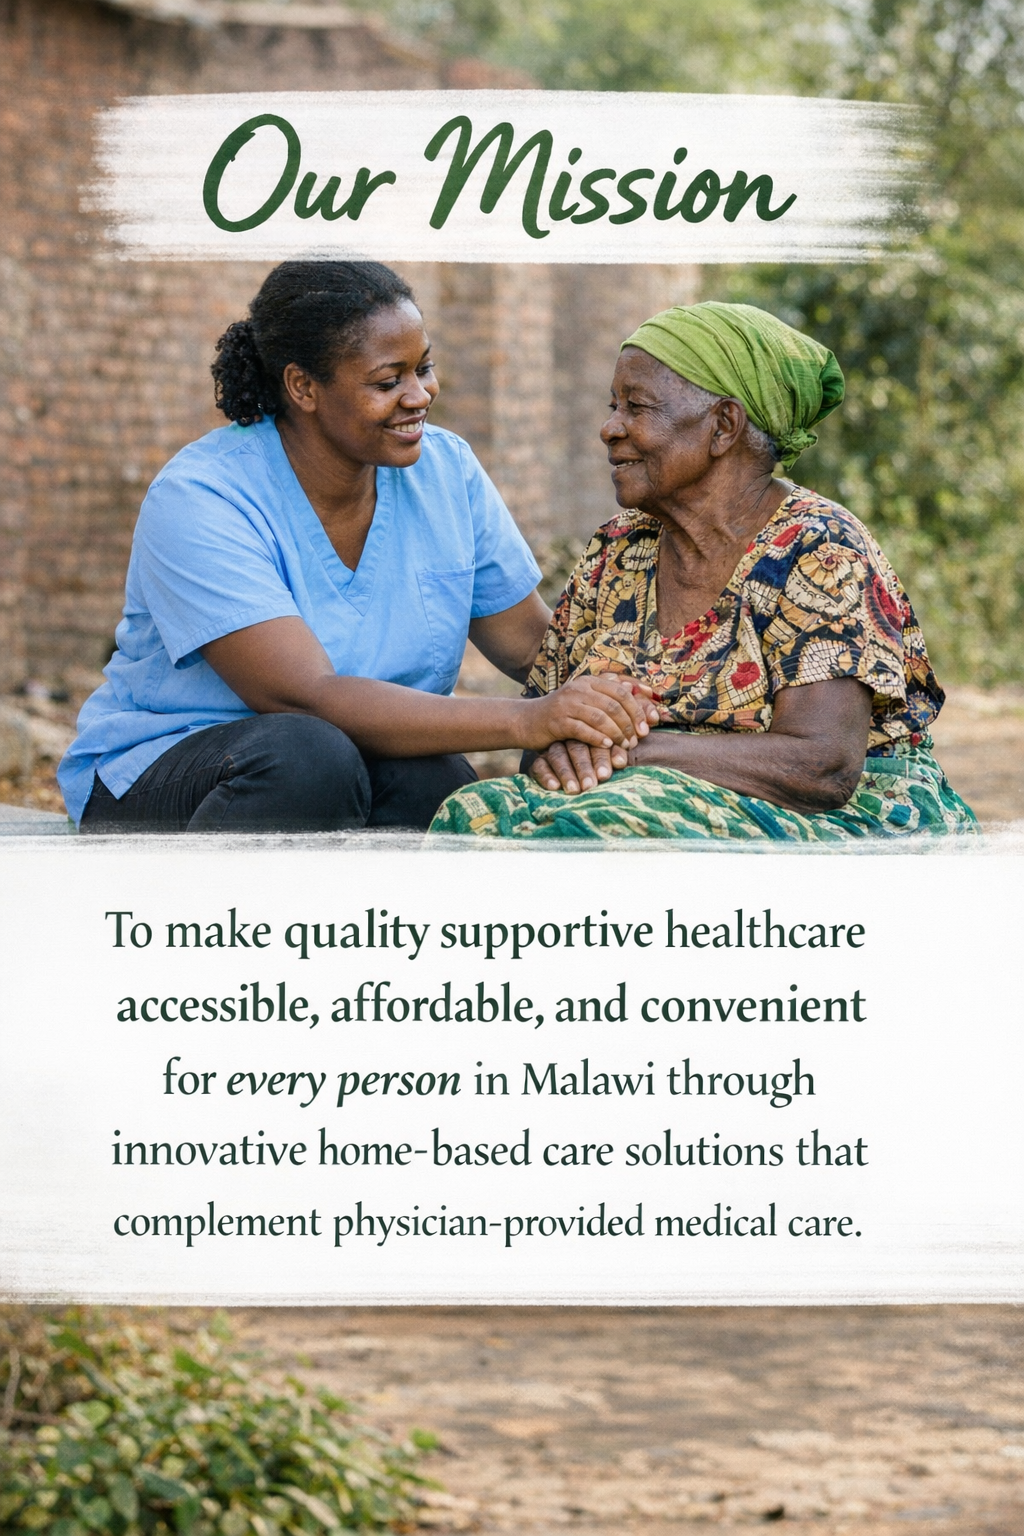
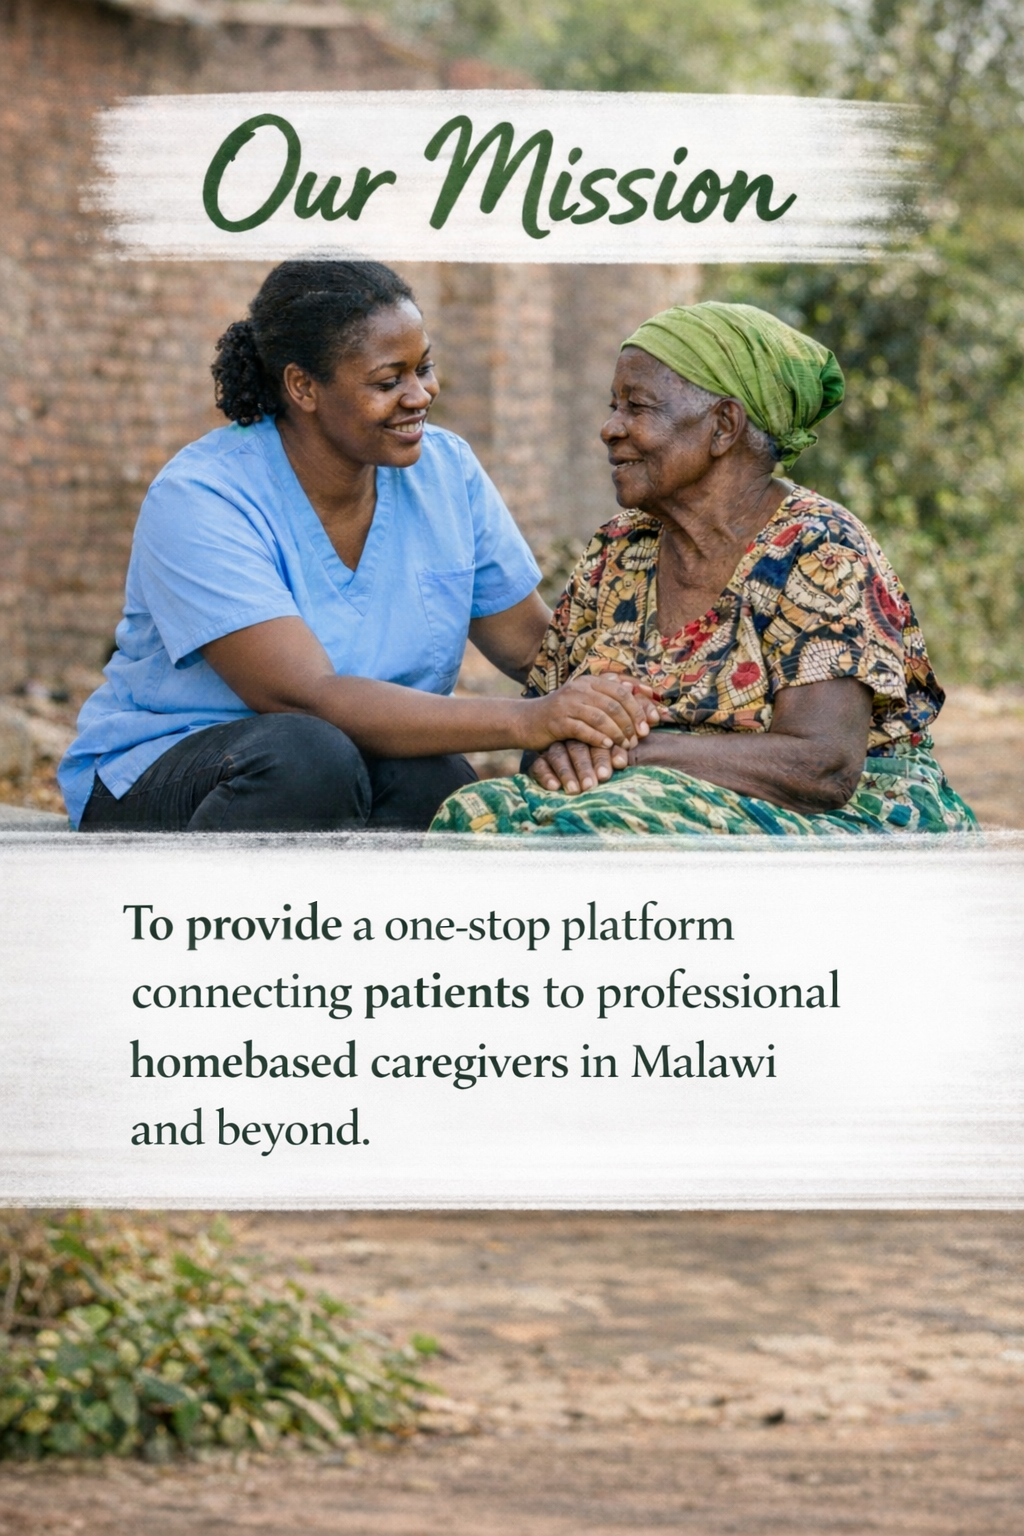
updated terms and service ,

Changed region(s): [[0.0, 0.5938, 1.0, 1.0], [0.0, 0.3125, 1.0, 0.5938], [0.5312, 0.3438, 0.6562, 0.4375]]

diff --git a/src/pages/About.tsx b/src/pages/About.tsx
@@ -81,10 +81,10 @@ const About = () => {
       <main>
         {/* Hero Section */}
         <section 
-          className="py-8 lg:py-12 relative bg-cover bg-top bg-no-repeat"
+          className="py-6 lg:py-8 relative bg-cover bg-top bg-no-repeat rounded-b-3xl overflow-hidden"
           style={{ backgroundImage: 'url(/mission.png)' }}
         >
-          <div className="absolute inset-0 bg-black/40"></div>
+          <div className="absolute inset-0 bg-black/40 rounded-b-3xl"></div>
           <div className="container relative z-10">
             <div className="grid lg:grid-cols-2 gap-8 items-center">
               <div>
@@ -92,10 +92,9 @@ const About = () => {
                   About <span className="text-primary">CareConnect</span>
                 </h1>
                 <p className="text-lg text-white/90 mb-6">
-                  We're revolutionizing healthcare delivery in Malawi by connecting patients 
-                  with qualified caregivers for supportive, compassionate care in the comfort of home. 
-                  Our caregivers provide assistance and monitoring services that complement your 
-                  physician's medical care.
+                  We connect patients with professional home-based caregivers for quality supportive health 
+                  services in the comfort of home. Our verified caregivers provide compassionate assistance 
+                  and monitoring services that complement your physician's medical care.
                 </p>
                 <div className="flex flex-col sm:flex-row gap-4">
                   <Link to="/register">

diff --git a/src/pages/PublicCaregivers.tsx b/src/pages/PublicCaregivers.tsx
@@ -175,7 +175,7 @@ const PublicCaregivers = () => {
       
       {/* Hero Section */}
       <section 
-        className="py-8 lg:py-12 relative bg-cover bg-no-repeat rounded-b-3xl overflow-hidden"
+        className="py-4 lg:py-6 relative bg-cover bg-no-repeat rounded-b-3xl overflow-hidden"
         style={{ backgroundImage: 'url(/caregivers.png)', backgroundPosition: '0 45%' }}
       >
         <div className="absolute inset-0 bg-black/40"></div>
